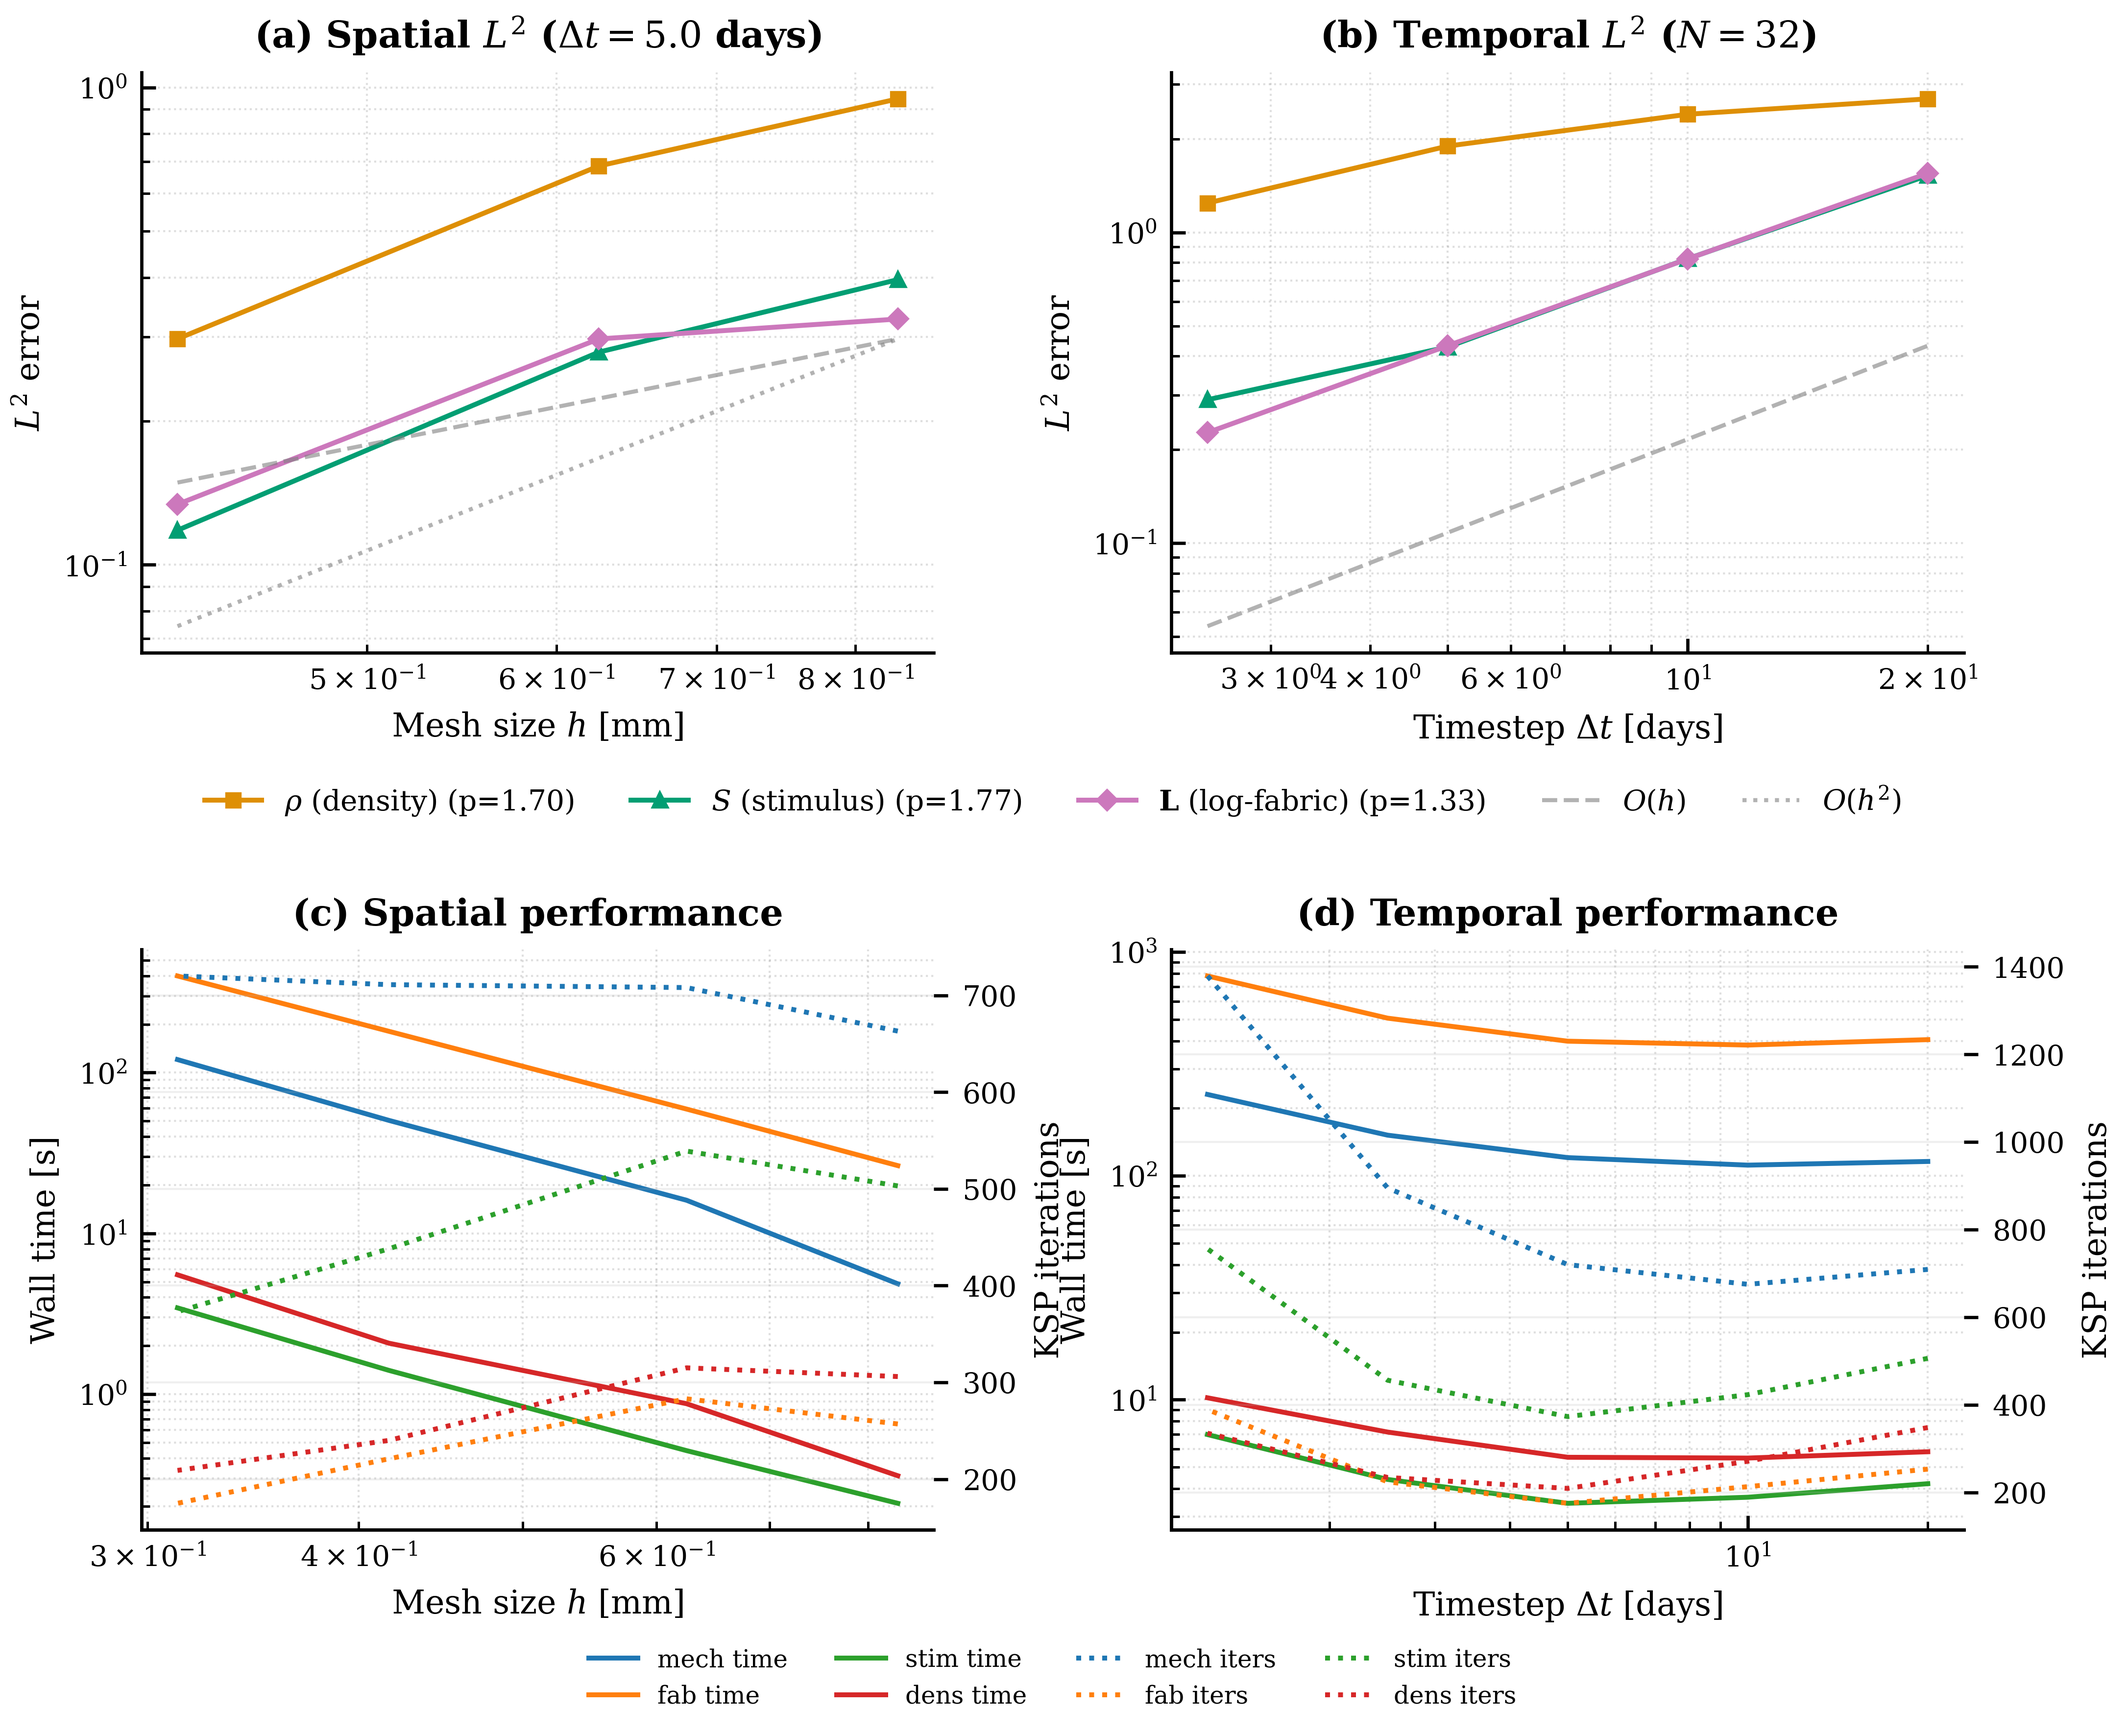
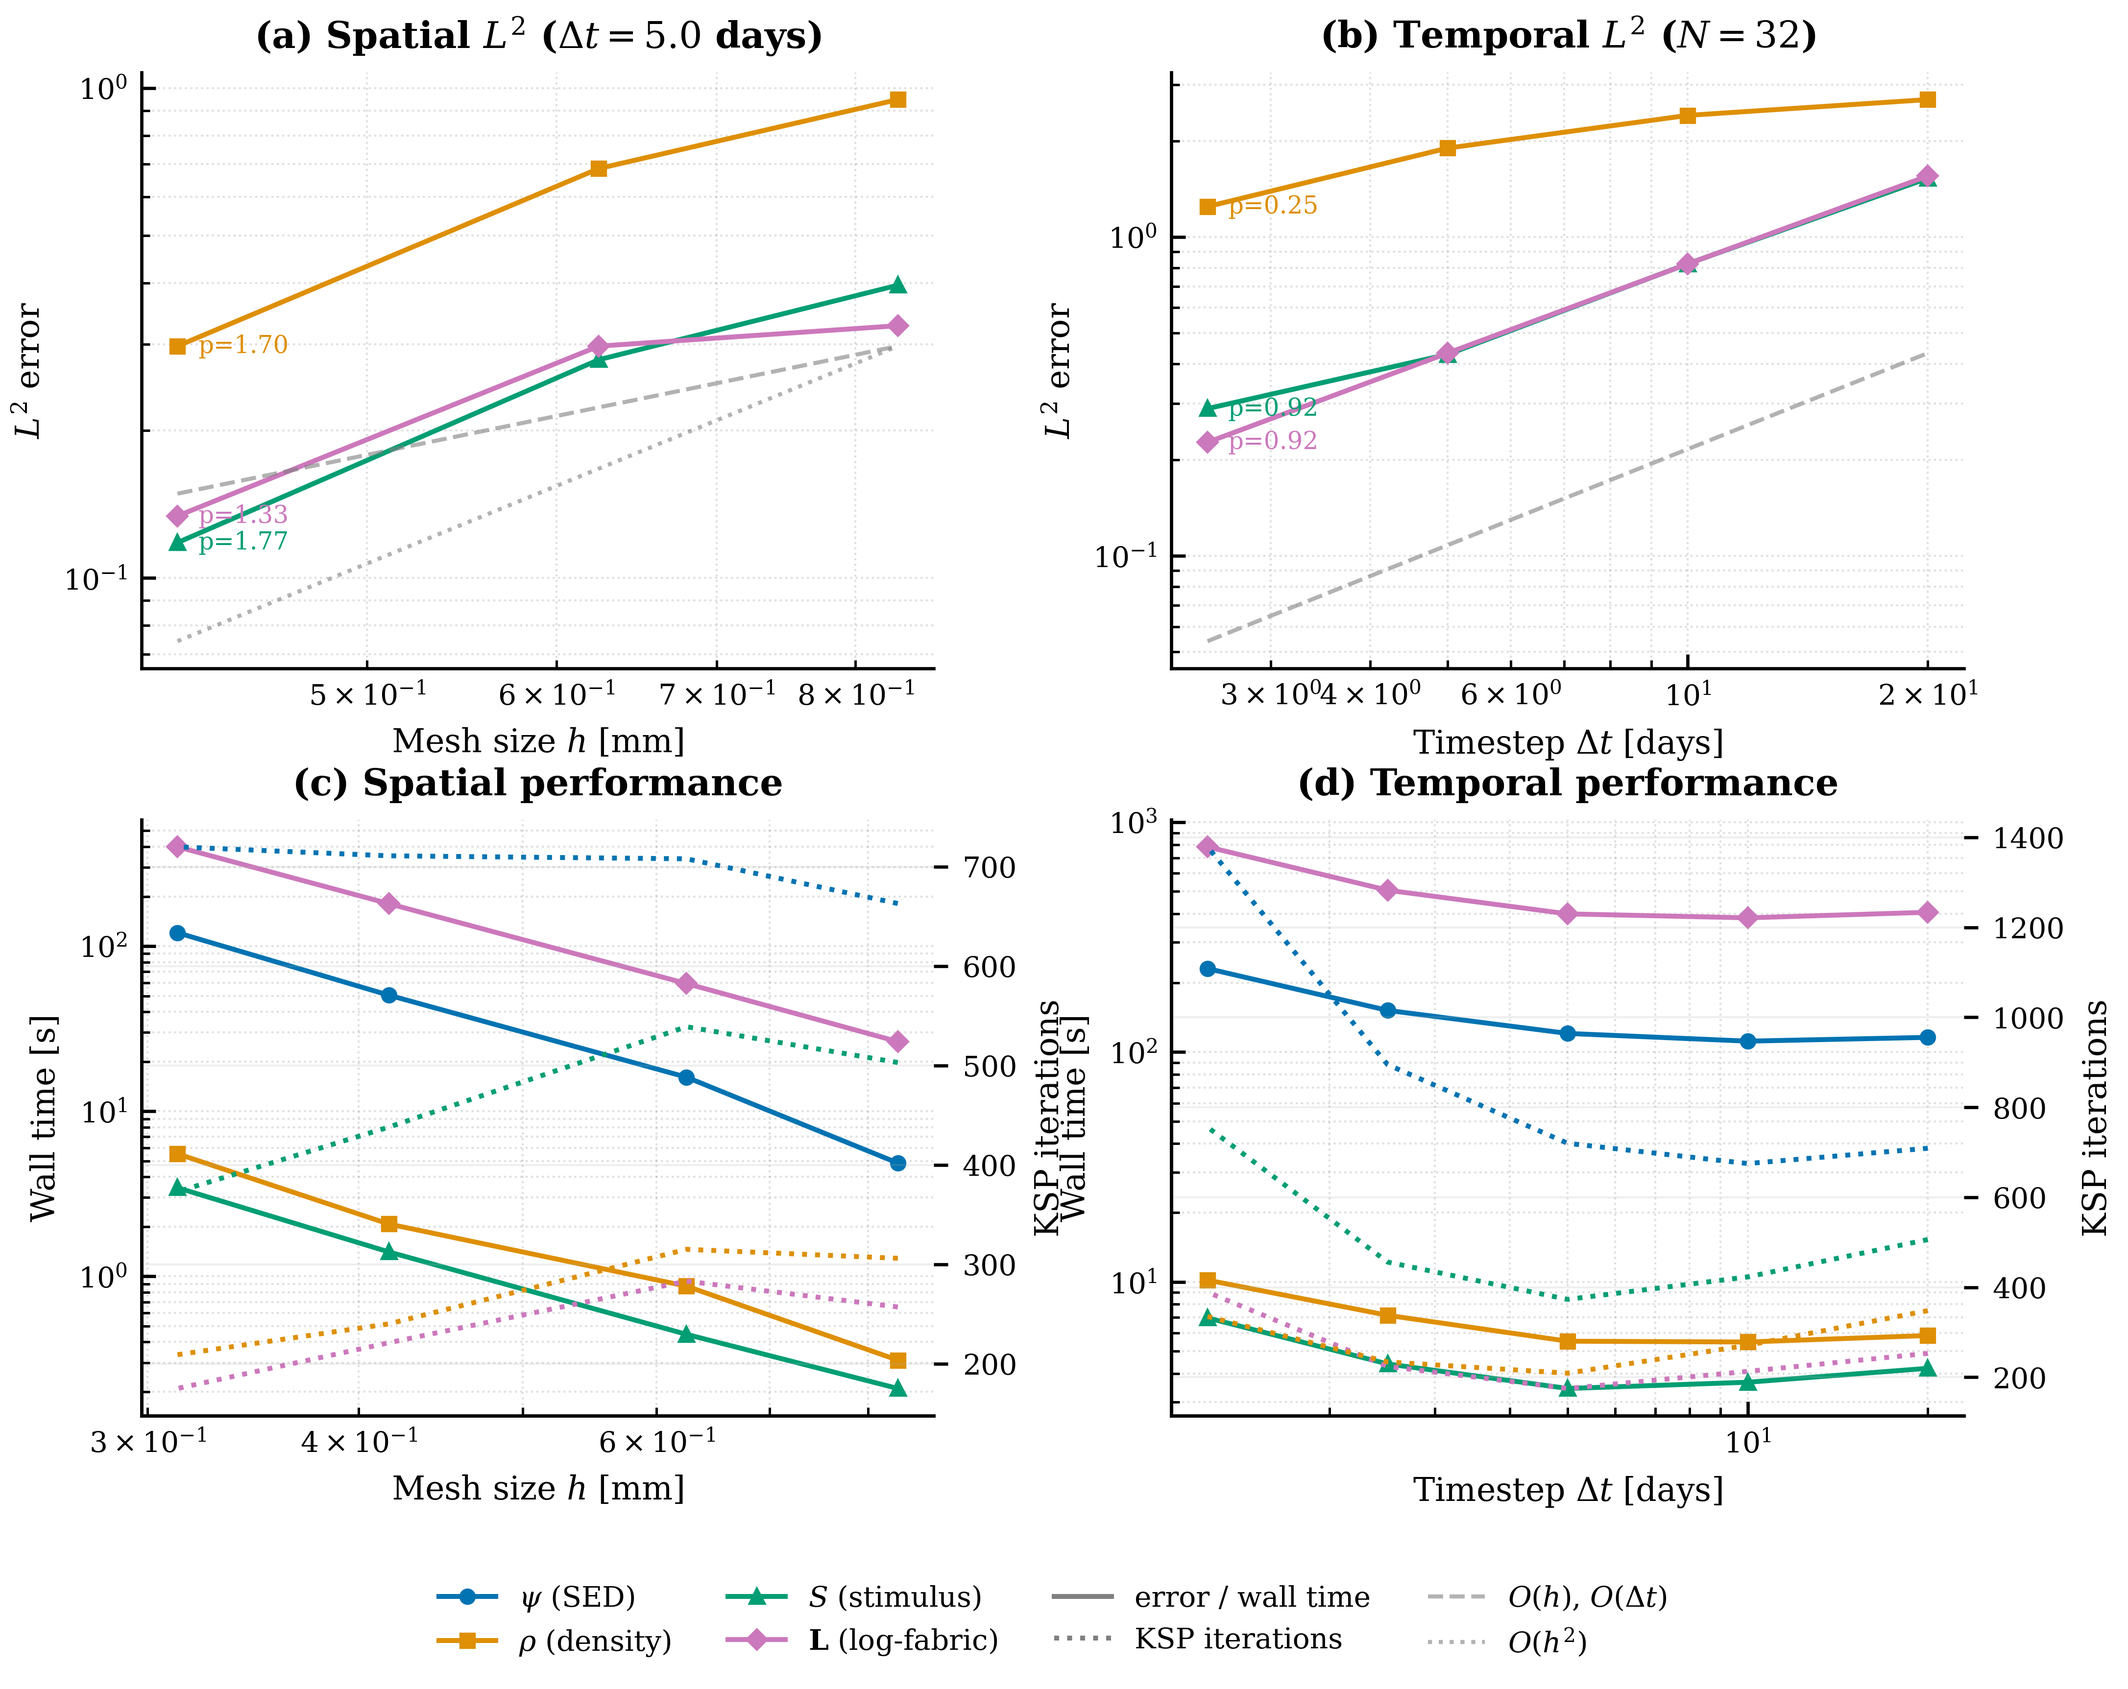
Enhance convergence plotting: add order annotations, unify legend, and adjust layout

diff --git a/analysis/convergence_plot.py b/analysis/convergence_plot.py
@@ -25,6 +25,8 @@ import matplotlib.pyplot as plt
 
 from analysis.plot_utils import (
     FIELD_NAMES as _ALL_FIELD_NAMES, FIELD_LABELS, FIELD_COLORS, FIELD_MARKERS, COLORS,
+    SUBSOLVER_COLORS, SUBSOLVER_MARKERS, SUBSOLVER_LABELS,
+    REFERENCE_COLOR, REFERENCE_ALPHA, REFERENCE_LINESTYLE, REFERENCE_LINEWIDTH,
     FIGSIZE_DOUBLE_COLUMN, PUBLICATION_DPI,
     PLOT_LINEWIDTH, PLOT_MARKERSIZE,
     estimate_convergence_order, add_reference_line, setup_axis_style,
@@ -84,14 +86,24 @@ def plot_spatial_errors(ax: plt.Axes, spatial_data: dict[str, pd.DataFrame], err
         if h.size == 0:
             continue
         order = estimate_convergence_order(h, err)
-        label = f"{FIELD_LABELS.get(field, field)} (p={order:.2f})"
-        ax.loglog(
+        label = FIELD_LABELS.get(field, field)
+        line, = ax.loglog(
             h, err,
             marker=FIELD_MARKERS.get(field, "o"),
             color=FIELD_COLORS.get(field, "C0"),
             label=label,
             linewidth=PLOT_LINEWIDTH,
             markersize=PLOT_MARKERSIZE,
+        )
+        # Add order annotation near the line (at rightmost point)
+        ax.annotate(
+            f"p={order:.2f}",
+            xy=(h[-1], err[-1]),
+            xytext=(5, 0),
+            textcoords="offset points",
+            fontsize=6,
+            color=line.get_color(),
+            va="center",
         )
 
     if spatial_data:
@@ -128,14 +140,24 @@ def plot_temporal_errors(ax: plt.Axes, temporal_data: dict[str, pd.DataFrame], e
         if dt.size == 0:
             continue
         order = estimate_convergence_order(dt, err, from_start=True)
-        label = f"{FIELD_LABELS.get(field, field)} (p={order:.2f})"
-        ax.loglog(
+        label = FIELD_LABELS.get(field, field)
+        line, = ax.loglog(
             dt, err,
             marker=FIELD_MARKERS.get(field, "o"),
             color=FIELD_COLORS.get(field, "C0"),
             label=label,
             linewidth=PLOT_LINEWIDTH,
             markersize=PLOT_MARKERSIZE,
+        )
+        # Add order annotation near the line (at rightmost point)
+        ax.annotate(
+            f"p={order:.2f}",
+            xy=(dt[-1], err[-1]),
+            xytext=(5, 0),
+            textcoords="offset points",
+            fontsize=6,
+            color=line.get_color(),
+            va="center",
         )
 
     if temporal_data:
@@ -168,11 +190,17 @@ def plot_performance(ax: plt.Axes, df: pd.DataFrame, x_col: str, title: str) -> 
         ("dens_time", "dens"),
     ]
 
-    for col, label in lines:
+    for col, subsolver in lines:
         if col not in df:
             continue
         y = df[col].to_numpy(dtype=float)
-        ax.loglog(x, y, label=f"{label} time", linewidth=PLOT_LINEWIDTH)
+        ax.loglog(
+            x, y,
+            color=SUBSOLVER_COLORS.get(subsolver, "C0"),
+            marker=SUBSOLVER_MARKERS.get(subsolver, "o"),
+            linewidth=PLOT_LINEWIDTH,
+            markersize=PLOT_MARKERSIZE,
+        )
 
     # KSP iterations (secondary y)
     ax2 = ax.twinx()
@@ -182,7 +210,7 @@ def plot_performance(ax: plt.Axes, df: pd.DataFrame, x_col: str, title: str) -> 
         ("stim_iters", "stim"),
         ("dens_iters", "dens"),
     ]
-    for col, label in iters:
+    for col, subsolver in iters:
         if col not in df:
             continue
         y = df[col].to_numpy(dtype=float)
@@ -190,8 +218,8 @@ def plot_performance(ax: plt.Axes, df: pd.DataFrame, x_col: str, title: str) -> 
             x,
             y,
             linestyle=":",
+            color=SUBSOLVER_COLORS.get(subsolver, "C0"),
             linewidth=PLOT_LINEWIDTH,
-            label=f"{label} iters",
         )
 
     ax2.set_ylabel("KSP iterations")
@@ -217,9 +245,9 @@ def create_figure(xlsx: Path, dt_spatial: float, N_temporal: int, out: Path) -> 
     df_sp_perf = load_spatial_perf(xlsx, dt_spatial)
     df_tm_perf = load_temporal_perf(xlsx, N_temporal)
 
-    # Layout: 4 rows (2 plot rows + 2 legend rows) using GridSpec
-    fig = plt.figure(figsize=(FIGSIZE_DOUBLE_COLUMN[0], FIGSIZE_DOUBLE_COLUMN[1] * 1.2))
-    gs = fig.add_gridspec(4, 2, height_ratios=[1, 0.08, 1, 0.08], hspace=0.4, wspace=0.3)
+    # Layout: 3 rows (2 plot rows + 1 legend row) using GridSpec
+    fig = plt.figure(figsize=(FIGSIZE_DOUBLE_COLUMN[0], FIGSIZE_DOUBLE_COLUMN[1] * 1.18))
+    gs = fig.add_gridspec(3, 2, height_ratios=[1, 1, 0.18], hspace=0.35, wspace=0.3)
 
     # Row 0: L2 errors (spatial, temporal)
     ax_err_sp = fig.add_subplot(gs[0, 0])
@@ -227,15 +255,9 @@ def create_figure(xlsx: Path, dt_spatial: float, N_temporal: int, out: Path) -> 
     plot_spatial_errors(ax_err_sp, spatial_data, "L2_error", dt_spatial)
     plot_temporal_errors(ax_err_tm, temporal_data, "L2_error", N_temporal)
 
-    # Row 1: Legend for error plots
-    ax_leg1 = fig.add_subplot(gs[1, :])
-    ax_leg1.axis('off')
-    err_handles, err_labels = ax_err_sp.get_legend_handles_labels()
-    ax_leg1.legend(err_handles, err_labels, loc="center", ncol=len(err_handles), fontsize=7, frameon=False)
-
-    # Row 2: Performance (spatial, temporal)
-    ax_perf_sp = fig.add_subplot(gs[2, 0])
-    ax_perf_tm = fig.add_subplot(gs[2, 1])
+    # Row 1: Performance (spatial, temporal)
+    ax_perf_sp = fig.add_subplot(gs[1, 0])
+    ax_perf_tm = fig.add_subplot(gs[1, 1])
     
     if df_sp_perf is not None and not df_sp_perf.empty:
         plot_performance(ax_perf_sp, df_sp_perf, "h", r"(c) Spatial performance")
@@ -249,17 +271,47 @@ def create_figure(xlsx: Path, dt_spatial: float, N_temporal: int, out: Path) -> 
         setup_axis_style(ax_perf_tm, "", "", r"(d) Temporal performance", loglog=False)
         ax_perf_tm.text(0.5, 0.5, "No performance data", ha="center", va="center", transform=ax_perf_tm.transAxes)
 
-    # Row 3: Legend for performance plots
-    ax_leg2 = fig.add_subplot(gs[3, :])
-    ax_leg2.axis('off')
-    perf_handles, perf_labels = [], []
-    if hasattr(ax_perf_sp, '_perf_ax2'):
-        h1, l1 = ax_perf_sp.get_legend_handles_labels()
-        h2, l2 = ax_perf_sp._perf_ax2.get_legend_handles_labels()
-        perf_handles = h1 + h2
-        perf_labels = l1 + l2
-    if perf_handles:
-        ax_leg2.legend(perf_handles, perf_labels, loc="center", ncol=4, fontsize=6, frameon=False)
+    # Row 2: Unified legend for all plots
+    ax_leg = fig.add_subplot(gs[2, :])
+    ax_leg.axis('off')
+    
+    # Build unified legend: field symbols + line style indicators
+    from matplotlib.lines import Line2D
+    legend_handles = []
+    legend_labels = []
+    
+    # Add field/subsolver entries (shared across all plots)
+    all_fields = list(spatial_data.keys()) if spatial_data else []
+    # Add psi if present in performance data (not in error data)
+    if df_sp_perf is not None and "mech_time" in df_sp_perf.columns:
+        if "psi" not in all_fields:
+            all_fields = ["psi"] + all_fields
+    
+    for field in all_fields:
+        legend_handles.append(Line2D(
+            [0], [0],
+            marker=FIELD_MARKERS.get(field, "o"),
+            color=FIELD_COLORS.get(field, "C0"),
+            linewidth=PLOT_LINEWIDTH,
+            markersize=PLOT_MARKERSIZE,
+        ))
+        legend_labels.append(FIELD_LABELS.get(field, field))
+    
+    # Add line style indicators (solid = wall time / error, dashed = KSP iters)
+    legend_handles.append(Line2D([0], [0], color="gray", linewidth=PLOT_LINEWIDTH, linestyle="-"))
+    legend_labels.append("error / wall time")
+    legend_handles.append(Line2D([0], [0], color="gray", linewidth=PLOT_LINEWIDTH, linestyle=":"))
+    legend_labels.append("KSP iterations")
+    
+    # Add reference line indicators
+    legend_handles.append(Line2D([0], [0], color=REFERENCE_COLOR, linewidth=REFERENCE_LINEWIDTH, 
+                                  linestyle=REFERENCE_LINESTYLE, alpha=REFERENCE_ALPHA))
+    legend_labels.append(r"$O(h)$, $O(\Delta t)$")
+    legend_handles.append(Line2D([0], [0], color=REFERENCE_COLOR, linewidth=REFERENCE_LINEWIDTH, 
+                                  linestyle=":", alpha=REFERENCE_ALPHA))
+    legend_labels.append(r"$O(h^2)$")
+    
+    ax_leg.legend(legend_handles, legend_labels, loc="center", ncol=4, fontsize=7, frameon=False)
 
     save_manuscript_figure(fig, out.name, dpi=PUBLICATION_DPI)
 
